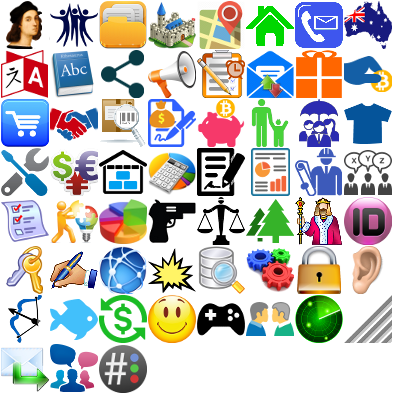
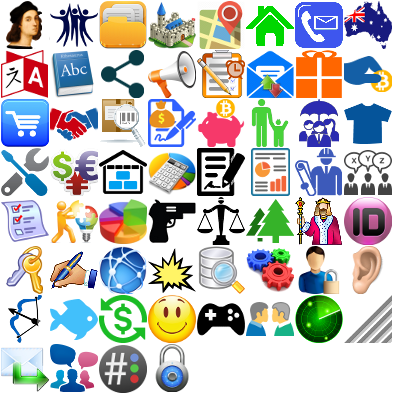
version 0.53 alpha

Changed region(s): [[0.7328, 0.6107, 0.8855, 0.7634], [0.3969, 0.855, 0.4885, 1.0]]

diff --git a/pandora.rb b/pandora.rb
@@ -14953,15 +14953,21 @@ module PandoraGtk
         smile_img = ' '+smile_img if editbox.buffer.text != ''
         editbox.buffer.insert_at_cursor(smile_img)
       end
+      smile_btn.tooltip_text = _('smile')+' (Alt+Down)'
       option_box.pack_start(smile_btn, false, false, 2)
 
-      crypt_btn = SafeCheckButton.new(_('crypt'), true)
-      crypt_btn.tooltip_text = 'Ctrl+K'
+      $window.register_stock(:crypt)
+      crypt_btn = PandoraGtk::SafeToggleToolButton.new(:crypt)
+      crypt_btn.tooltip_text = _('crypt')+' (Ctrl+K)'
+      #crypt_btn.safe_signal_clicked do |*args|
+      #end
       #crypt_btn.active = true
       option_box.pack_start(crypt_btn, false, false, 2)
 
-      vouch_btn = SafeCheckButton.new(_('vouch'), true)
-      vouch_btn.tooltip_text = 'Ctrl+G'
+      #vouch_btn = SafeCheckButton.new(_('vouch'), true)
+      $window.register_stock(:sign)
+      vouch_btn = PandoraGtk::SafeToggleToolButton.new(:sign)
+      vouch_btn.tooltip_text = _('vouch')+' (Ctrl+G)'
       option_box.pack_start(vouch_btn, false, false, 0)
 
       adjustment = Gtk::Adjustment.new(0, -1.0, 1.0, 0.1, 0.3, 0)

diff --git a/util/restart.rb b/util/restart.rb
@@ -2,8 +2,12 @@
 # encoding: UTF-8
 # coding: UTF-8
 
+# Utility for restart Pandora after the update
+# Утилита для перезапуска Пандоры после обновления
+
 # 2012 (c) Michael Galyuk
 # RU: 2012 (c) Михаил Галюк
+
 
 def add_quotes(str, qts='"')
   if (str.is_a? String) and str.index(' ')
@@ -23,8 +27,8 @@ if ARGV.size>0
   end
   puts 'Running ['+cmd+']...'
   sleep 1
-  res = Process.spawn(cmd)
-  Process.detach(res) if res
+  pid = Process.spawn(cmd)
+  Process.detach(pid) if res
 else
   puts 'Usage: ruby restart.rb cmd --with parameters'
 end
